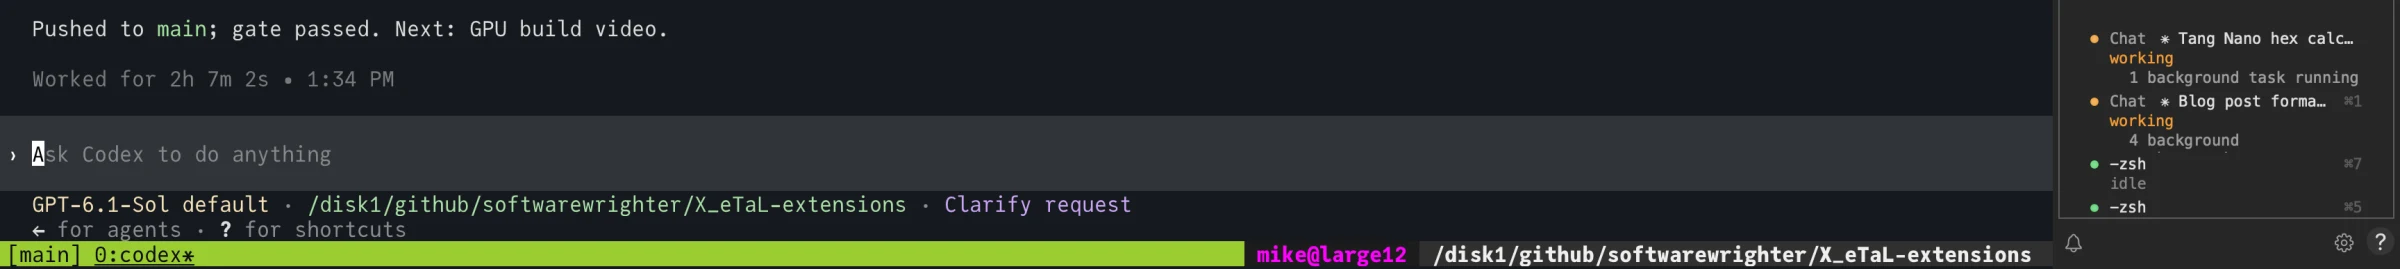
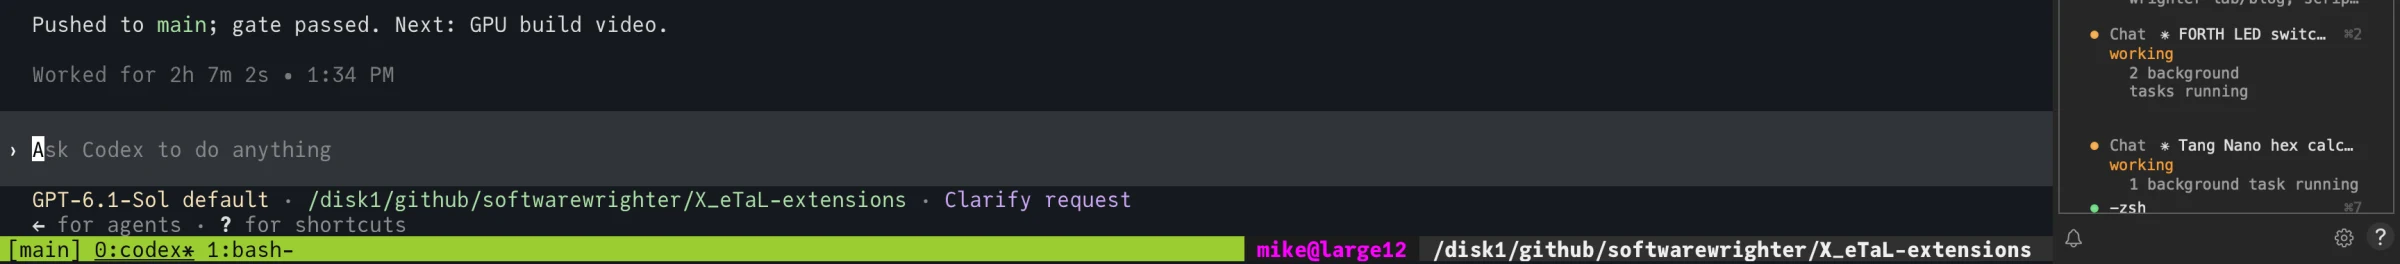
Draft Why I Use #7: newer tmux screenshot, codex and bash windows

diff --git a/_drafts/why-i-use-iterm2-tmux-autossh.md b/_drafts/why-i-use-iterm2-tmux-autossh.md
@@ -86,8 +86,8 @@ I used [mosh](https://mosh.org/), the mobile shell, before it. mosh keeps a sess
 ## tmux: a session that survives the connection
 
 <figure class="zoomable outdent-left" style="width: 380px;">
-<img src="{{ '/assets/images/posts/tmux-codex-large12.webp' | relative_url }}" class="no-invert" alt="A wide strip of an iTerm2 window: Codex waiting for its next request inside tmux on large12, with tmux's green status line (session main, window 0:codex, mike@large12 and the working directory) along the bottom, and iTerm2's Session Status panel at the right">
-<figcaption style="font-size: 0.85em;">Codex in tmux on large12. Click to enlarge.</figcaption>
+<img src="{{ '/assets/images/posts/tmux-codex-large12.webp' | relative_url }}" class="no-invert" alt="A wide strip of an iTerm2 window: Codex waiting for its next request inside tmux on large12, with tmux's green status line (session main, windows 0:codex and 1:bash, mike@large12 and the working directory) along the bottom, and iTerm2's Session Status panel at the right">
+<figcaption style="font-size: 0.85em;">Codex and bash, two windows in one tmux session on large12. Click to enlarge.</figcaption>
 </figure>
 
 autossh brings the connection back; tmux keeps the work alive while it is gone. Sessions live on the server, so a reboot of the MacBook, a new client, or a different machine can re-attach to the same running agent. That is what made [multi-day agent runs](/2026/04/19/saw-prolog-many-agents-self-hosting-mlpl/) on the Arch host practical: the agent keeps working whether or not anything is connected to it, and it can be inspected from wherever I am.
